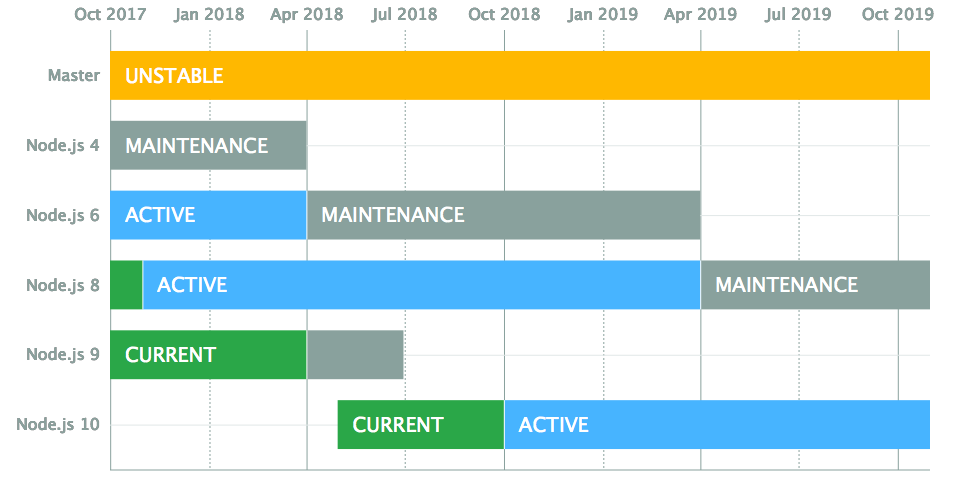
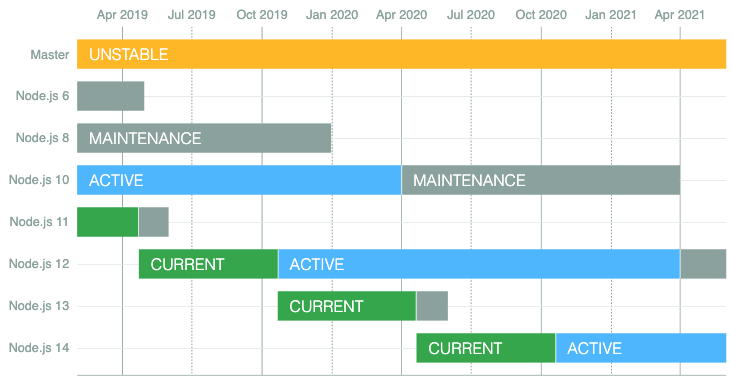
Node: update to version 12 & minor improvements

diff --git a/subjects/node/README.md b/subjects/node/README.md
@@ -23,7 +23,7 @@ Learn how to use [Node.js][node], an asynchronous JavaScript runtime that can ru
   - [Install Node.js and make sure it works](#install-nodejs-and-make-sure-it-works)
   - [Create and execute a Node.js file](#create-and-execute-a-nodejs-file)
   - [Node.js modules](#nodejs-modules)
-  - [Using modules](#using-modules)
+  - [Requiring core modules](#requiring-core-modules)
   - [Writing your own module](#writing-your-own-module)
   - [Requiring local modules](#requiring-local-modules)
   - [Export properties](#export-properties)
@@ -87,30 +87,33 @@ Learn how to use [Node.js][node], an asynchronous JavaScript runtime that can ru
 <p class='center'><img src='images/lts-schedule.png' width='80%' /></p>
 
 * Odd-numbered versions (e.g. v5, v7, v9) are **unstable** releases with the latest features, and will **no longer be supported after 6-9 months**.
-* Even-numbered versions (e.g. v4, v6, v8, v10) have **long term support (LTS)**.
-  They are actively developed for 6 months.
-  They are supported for 18 months after that.
-  They are still maintained (e.g. security fixes) for 12 months after that.
-  So they are **supported for 36 months**.
+* Even-numbered versions (e.g. v4, v6, v8, v10, v12) have [**long term support (LTS)**][node-lts].
+  They are actively developed for 6 months, but maintained for a total of 30 months (e.g. security fixes).
+  Production applications should use LTS releases.
 
 
 
 ### Install Node.js and make sure it works
 
-Download and install Node.js now.
-
-If the installation was successfull, you should be able to access Node.js in your CLI:
+Download and install Node.js now. Once the installation is done, you should be
+able to display the version in your CLI:
 
 ```bash
 $> node --version
-v10.11.0
+v12.10.0
+```
 
+By simply running the `node` command without any arguments, you can also open an
+interactive Node.js [REPL][repl] (note the prompt change indicating that you are
+in the Node.js console):
+
+```bash
 $> node
 > 1 + 2
 3
 ```
 
-Type `Ctrl-C` or `.exit` to exit.
+Type `.exit` or press `Ctrl-C` twice to exit.
 
 
 
@@ -142,60 +145,22 @@ but here you are running JavaScript code **locally with Node.js**, like you woul
 
 ### Node.js modules
 
-Node.js code is organized in **modules**.
-These are the core modules available to you out of the box:
+Node.js code is organized in **modules**. These are the core modules available
+to you out of the box (with those that you are likely to use in most
+applications highlighted):
 
-<!-- slide-column 30 -->
+Assertion Testing, Async Hooks, Buffer, C++ Addons, C/C++ Addons - N-API, **Child Processes**, Cluster, Command Line Options, Console, **Crypto**, Debugger, Deprecated APIs, DNS, Domain, ECMAScript Modules, Errors, **Events**, **File System**, Globals, **HTTP**, **HTTP/2**, **HTTPS**, Inspector, Internationalization, Modules, Net, OS, **Path**, Performance Hooks, Policies, **Process**, Punycode, **Query Strings**, Readline, REPL, Report, **Stream**, String Decoder, Timers, **TLS/SSL**, Trace Events, TTY, UDP/Datagram, **URL**, Utilities, V8, VM, Worker Threads, Zlib.
 
-* Assertion Testing
-* Buffer
-* C/C++ Addons
-* **Child Processes**
-* Cluster
-* Command Line Options
-* Console
-* **Crypto**
-* Debugger
-* DNS
-* Domain
-* Errors
-
-<!-- slide-column 30 -->
-
-* **Events**
-* **File System**
-* Globals
-* **HTTP**
-* **HTTPS**
-* Modules
-* Net
-* OS
-* **Path**
-* **Process**
-* Punycode
-* Query Strings
-
-<!-- slide-column 30 -->
-
-* Readline
-* REPL
-* Stream
-* String Decoder
-* Timers
-* TLS/SSL
-* TTY
-* UDP/Datagram
-* URL
-* Utilities
-* V8
-* VM
-* ZLIB
+> Refer to the [documentation][node-12-api] for more information.
 
 
 
-### Using modules
+### Requiring core modules
 
-You can use modules in your code with `require()`:
+You can get a hold of Node.js's modules in your code by calling `require()` with
+the name of the module. The following example requires the [`os`
+module][node-module-os], which provides operating system-related utility
+methods:
 
 ```js
 // Require the operating system core module
@@ -246,8 +211,9 @@ Code that uses `require()` on that file will receive the `exports` object.
 
 <runkit disabled></runkit>
 
-You also use `require()` for your own module, but instead of just a name you have to provide a **relative file path**.
-Modify `script.js` as follows:
+You also use `require()` for your own module, but instead of just a name you
+have to provide a **file path** (relative or absolute). Modify `script.js` as
+follows:
 
 ```js
 // Require the utils.js file in the current directory
@@ -757,7 +723,6 @@ If you save the script to `bug1.js` and execute it this is what will happen:
 ```bash
 $> node bug1.js
 undefined
-Could not read file because: ENOENT: no such file or directory, open 'hello.txt'
 ```
 
 #### Mistake 1 asynchronous issue
@@ -1009,7 +974,7 @@ server.on('request', function(message) {
 
 **Documentation**
 
-* [Core modules (10.x)][node-10-api]
+* [Core modules (12.x)][node-12-api]
 
 **Further reading**
 
@@ -1028,8 +993,11 @@ server.on('request', function(message) {
 [mixu-node-book]: http://book.mixu.net/node/ch2.html
 [nginx]: https://www.nginx.com
 [node]: https://nodejs.org/en/
-[node-10-api]: https://nodejs.org/dist/latest-v10.x/docs/api/
+[node-12-api]: https://nodejs.org/dist/latest-v12.x/docs/api/
 [node-event-emitter]: https://nodejs.org/api/events.html
 [node-explained-video]: http://kunkle.org/talks/
+[node-lts]: https://nodejs.org/en/about/releases
+[node-module-os]: https://nodejs.org/dist/latest-v12.x/docs/api/os.html#os_os
+[repl]: https://en.wikipedia.org/wiki/Read%E2%80%93eval%E2%80%93print_loop
 [stack]: https://developer.mozilla.org/en-US/docs/Glossary/Call_stack
 [twisted]: http://twistedmatrix.com/trac/
